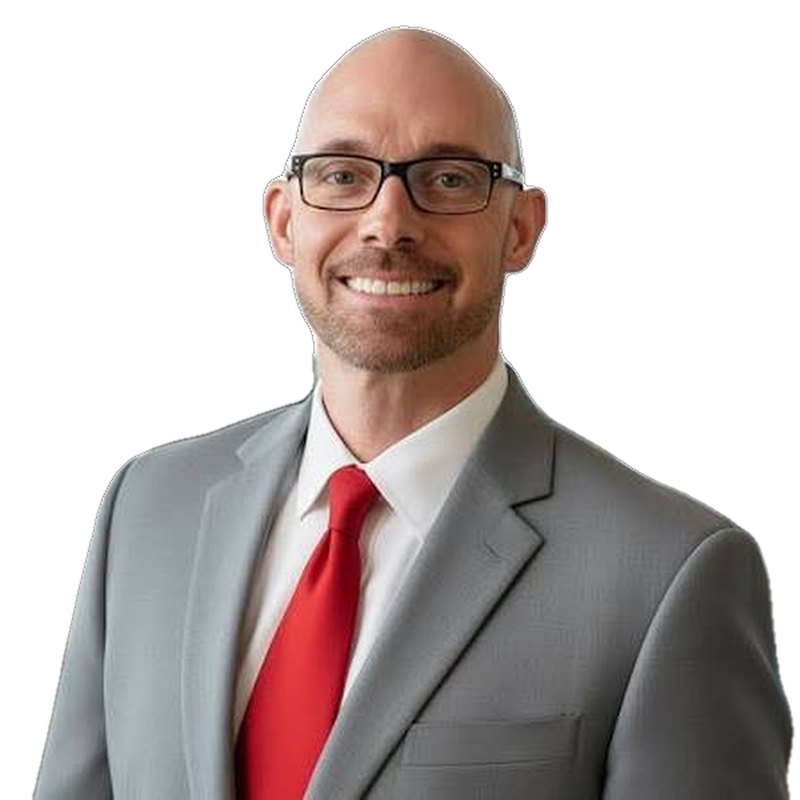
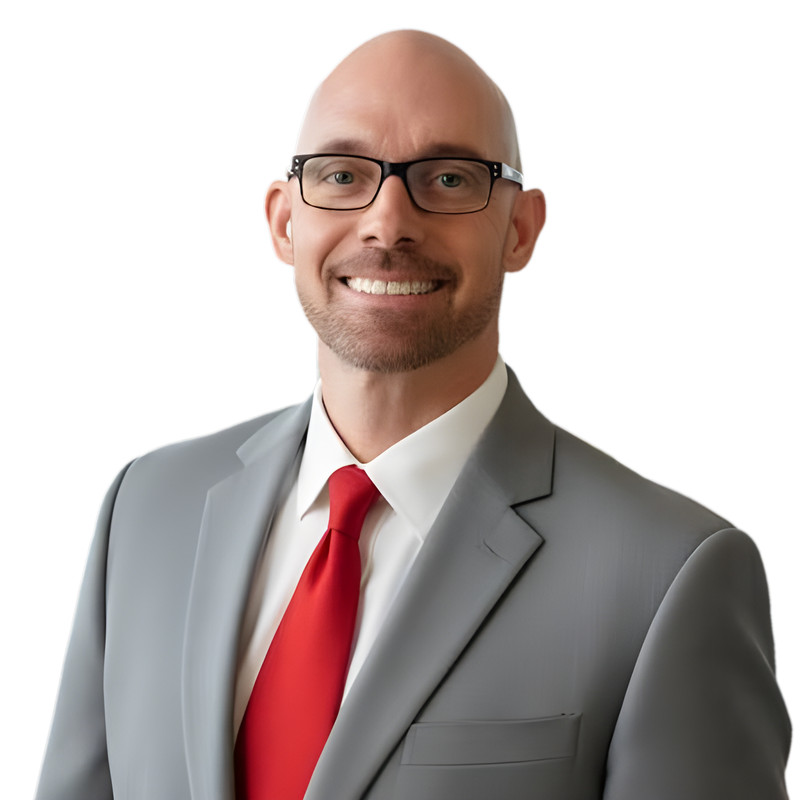
Sharper team portraits: AI upscaling for small originals, cleaner edges, cache-busted image links
Claude-Session: https://claude.ai/code/session_013uZfmSQoX4wPru28623p3v

diff --git a/src/common.py b/src/common.py
@@ -255,7 +255,7 @@ def face(initials, root, tone="", style="", note=True, eager=False):
         name = TEAM_NAMES[initials]
         load = 'fetchpriority="high"' if eager else 'loading="lazy"'
         return (f'<div class="portrait has-photo" style="{style}"><picture>'
-                f'<source srcset="{root}assets/img/team/{slug}.webp" type="image/webp">'
-                f'<img src="{root}assets/img/team/{slug}.jpg" alt="{name}, CECai" width="800" height="800" {load} decoding="async"></picture></div>')
+                f'<source srcset="{root}assets/img/team/{slug}.webp?v={_ver('assets/img/team/'+slug+'.webp')}" type="image/webp">'
+                f'<img src="{root}assets/img/team/{slug}.jpg?v={_ver('assets/img/team/'+slug+'.jpg')}" alt="{name}, CECai" width="800" height="800" {load} decoding="async"></picture></div>')
     n = '<span class="note">Portrait to come</span>' if note else ""
     return f'<div class="portrait {tone}" style="{style}"><span class="mono">{initials}</span>{n}</div>'
